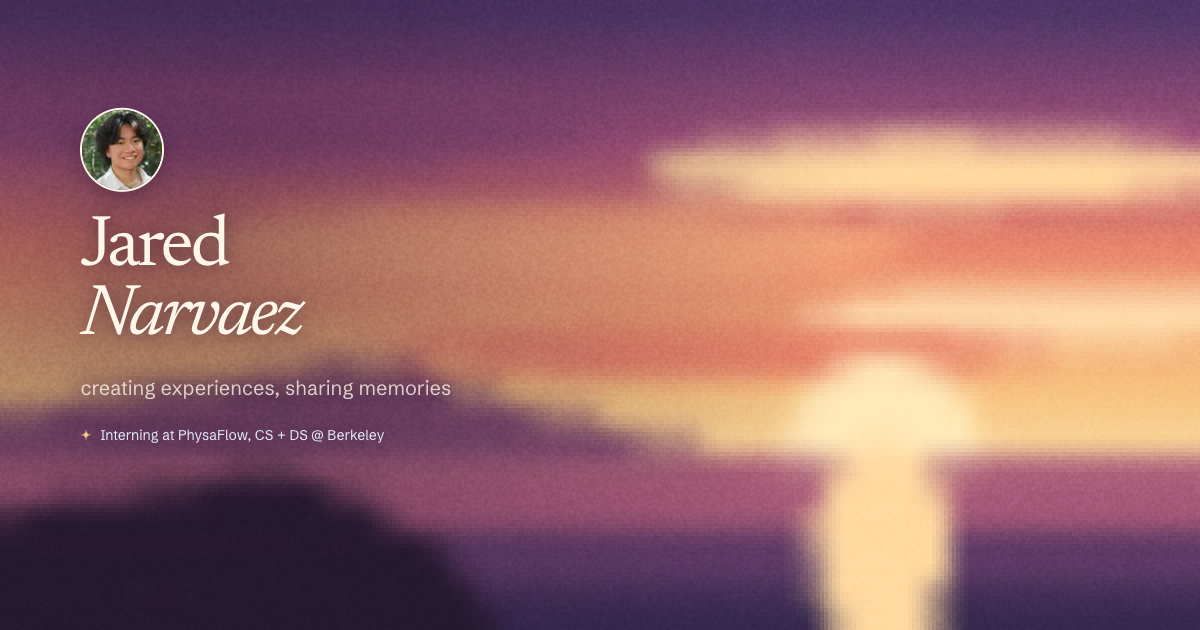
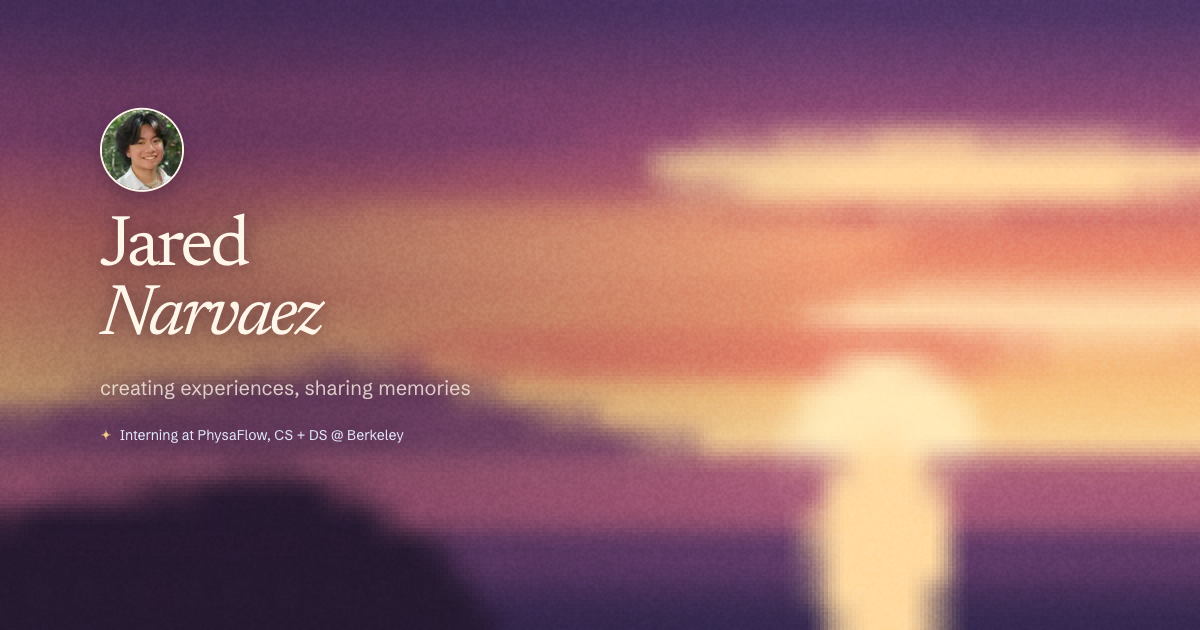
Layout: centered 1000px content column

diff --git a/src/app/globals.css b/src/app/globals.css
@@ -17,6 +17,13 @@
      docs/reference/home-mockup.html, chosen for step 7 on 2026-10-16). */
   --margin: clamp(24px, 6.7vw, 96px);
 
+  /* Left and right edges of the page content: a centered 1000px column, text left-aligned inside
+     (option B, chosen by Jared in /lab, 2026-10-19). On screens too narrow for side space, max()
+     falls back to the side margin. % (not vw) so the scrollbar doesn't push it off center.
+     The nav stays on --margin at the screen edges. */
+  --content-l: max(var(--margin), calc((100% - 1000px) / 2));
+  --content-r: max(var(--margin), calc((100% - 1000px) / 2));
+
   /* Footer: one 20px line plus 28px below it and the phone's safe-area inset. Connect is one
      screen minus this, so the last screen at full night holds both (footer mockup, option A). */
   --footer-height: calc(48px + env(safe-area-inset-bottom, 0px));

diff --git a/src/components/Hero.tsx b/src/components/Hero.tsx
@@ -10,7 +10,7 @@ import { hero } from "@/data/hero";
 // Layout values follow docs/reference/home-mockup.html.
 export default function Hero() {
   return (
-    <section className="flex min-h-svh items-center px-(--margin) pt-30 pb-20">
+    <section className="flex min-h-svh items-center pl-(--content-l) pr-(--content-r) pt-30 pb-20">
       {/* Nudged a little above center, as in the mockup. */}
       <div className="flex max-w-160 -translate-y-[4vh] flex-col gap-5.5 [text-shadow:var(--text-shadow)]">
         {/* 84px round portrait with a 2px cream border. First thing on screen, so it loads eagerly. */}

diff --git a/src/components/Footer.tsx b/src/components/Footer.tsx
@@ -4,7 +4,7 @@
 // for the leave-a-star hint. Its height is --footer-height (globals.css), which Connect subtracts.
 export default function Footer() {
   return (
-    <footer className="h-(--footer-height) px-(--margin) text-[12px] leading-5 text-ink/60 [text-shadow:var(--text-shadow)]">
+    <footer className="h-(--footer-height) pl-(--content-l) pr-(--content-r) text-[12px] leading-5 text-ink/60 [text-shadow:var(--text-shadow)]">
       designed and built by Jared Narvaez
     </footer>
   );

diff --git a/src/components/Connect.tsx b/src/components/Connect.tsx
@@ -26,7 +26,7 @@ export default function Connect() {
   return (
     <section
       id="contact"
-      className="flex min-h-[calc(100svh-var(--footer-height))] items-center px-(--margin) [text-shadow:var(--text-shadow)]"
+      className="flex min-h-[calc(100svh-var(--footer-height))] items-center pl-(--content-l) pr-(--content-r) [text-shadow:var(--text-shadow)]"
     >
       <div className="w-[min(320px,100%)]">
         <SectionLabel>{connect.label}</SectionLabel>

diff --git a/src/components/BeyondCode.tsx b/src/components/BeyondCode.tsx
@@ -151,7 +151,7 @@ export default function BeyondCode() {
   return (
     <section
       id="beyond-code"
-      className="px-(--margin) py-[clamp(72px,12vh,140px)]"
+      className="pl-(--content-l) pr-(--content-r) py-[clamp(72px,12vh,140px)]"
     >
       {/* LAB: --bc-* variables let /lab tune height, width, print size and frame (2026-10-16).
           Defaults are the current values; bake the chosen ones in and remove the variables. */}

diff --git a/src/components/TechStack.tsx b/src/components/TechStack.tsx
@@ -16,7 +16,7 @@ export default function TechStack() {
   return (
     <section
       id="tech"
-      className="px-(--margin) py-[clamp(72px,12vh,140px)] [text-shadow:var(--text-shadow)]"
+      className="pl-(--content-l) pr-(--content-r) py-[clamp(72px,12vh,140px)] [text-shadow:var(--text-shadow)]"
     >
       <SectionLabel>{techStack.label}</SectionLabel>
       <SectionHeading>{techStack.heading}</SectionHeading>

diff --git a/src/components/SectionDivider.tsx b/src/components/SectionDivider.tsx
@@ -6,7 +6,7 @@
 // Values chosen with Jared 2026-10-16, not yet in visual-system.md.
 export default function SectionDivider({ wide = false }: { wide?: boolean }) {
   return (
-    <div aria-hidden="true" className="px-(--margin)">
+    <div aria-hidden="true" className="pl-(--content-l) pr-(--content-r)">
       <div className={`h-px bg-ink/22 ${wide ? "" : "max-w-160"}`} />
     </div>
   );

diff --git a/src/components/Projects.tsx b/src/components/Projects.tsx
@@ -61,7 +61,7 @@ export default function Projects() {
   return (
     <section
       id="projects"
-      className="px-(--margin) py-[clamp(72px,12vh,140px)] [text-shadow:var(--text-shadow)]"
+      className="pl-(--content-l) pr-(--content-r) py-[clamp(72px,12vh,140px)] [text-shadow:var(--text-shadow)]"
     >
       <CollapsibleHeader
         label={projectsSection.label}

diff --git a/src/components/Experience.tsx b/src/components/Experience.tsx
@@ -43,7 +43,7 @@ export default function Experience() {
   return (
     <section
       id="experience"
-      className="px-(--margin) py-[clamp(72px,12vh,140px)] [text-shadow:var(--text-shadow)]"
+      className="pl-(--content-l) pr-(--content-r) py-[clamp(72px,12vh,140px)] [text-shadow:var(--text-shadow)]"
     >
       <CollapsibleHeader
         label={label}

diff --git a/src/components/Intro.tsx b/src/components/Intro.tsx
@@ -9,7 +9,7 @@ export default function Intro() {
   return (
     <section
       id="about"
-      className="px-(--margin) py-[clamp(72px,12vh,140px)] [text-shadow:var(--text-shadow)]"
+      className="pl-(--content-l) pr-(--content-r) py-[clamp(72px,12vh,140px)] [text-shadow:var(--text-shadow)]"
     >
       <SectionLabel>{intro.label}</SectionLabel>
 

diff --git a/docs/decisions-log.md b/docs/decisions-log.md
@@ -64,3 +64,4 @@
 | 2026-10-16 | An open experience role shows its bullets plus tech tags (small pills, as in projects); no link to a project page. Add a small footer line, "designed and built by Jared Narvaez" (look not designed yet). Italic stays on the surname only for now. | Jared's answers in the content pass. Tags let recruiters see the tools behind each role at a glance; a footer credit fits a site he designed and built himself. Italic elsewhere is still undecided, so nothing changes. |
 | 2026-10-16 | Footer = option A: one plain line, "designed and built by Jared Narvaez", 12px at ~60% cream, left-aligned on the margin under connect | Compared three footers in a mockup at full night. Left alignment matches every other text block on the page, and the bottom-right corner stays clear for the leave-a-star hint. Plain, since italic beyond the hero surname is still undecided. Rejected: B centered (the only centered text block); C with a "back to top" link (crowds the star hint, and the nav already returns on scroll up); italic surname in the footer. |
 | 2026-10-19 | Hero line = "creating experiences, sharing memories" at 20px (was "I build stuff." at 18px) | Jared drafted it after launch from what he enjoys most: designing things people can see and use, and people sharing the experience. One line carries both the engineer and the person, and "memories" leads into the scrapbook and leave a star. Compared in /lab over the golden-hour sky at 18–24px: 20px reads more confident while the name stays the only focal point. Not chosen: "building" or "designing" in place of "creating"; a middle dot between the halves; two sentences with periods; 18, 22 and 24px. |
+| 2026-10-19 | Page layout = B: all section content in a centered 1000px column, left-aligned inside; nav stays at the screen edges; narrower screens fall back to the side margin | Jared wanted space on both sides, like Drew's site, while keeping text left-aligned. Compared three layouts on the full home page in /lab. Not chosen: A (current 96px left margin), C (wider left edge only, right side left open). |

diff --git a/docs/visual-system.md b/docs/visual-system.md
@@ -95,6 +95,13 @@ Blend channel by channel (straight RGB) between neighboring keyframes. Golden ho
 - **Hero name:** Newsreader, stacked ("Jared" over "*Narvaez*" in italic), line-height about 0.95, 72px (desktop), weight 400, letter-spacing `-0.045em`. Word-spacing (`0.18em`) only matters if the name ever sits on one line, e.g. a navbar or footer. Needs a smaller size on phones (e.g. `clamp()`); spacing is in em so it scales with it.
 - **Italic:** used in the surname and in photo captions on scrapbook prints (Newsreader italic, in place of handwriting). Whether it appears anywhere else is still open.
 
+## Page layout
+
+- **Content column (decided 2026-10-19):** every section's content sits in a centered column, max 1000px wide, left-aligned inside (option B, like Drew's site). Built as `max(side margin, (page width − 1000px) / 2)` on each side, so below ~1100px wide it falls back to the side margin (up to 96px on desktop, 24px on phones).
+- **What "the 96px margin" means below:** on wide screens, the column's left and right edges. Tech stack rows run edge to edge of the column.
+- **Nav** stays on the 96px screen margin, outside the column.
+- **Vignette** unchanged (still fades out ~72% across); text toward the column's right edge sits closer to the sun, so check golden hour when widening blocks.
+
 ## Hero layout
 
 - **Placement:** editorial left, text block starts at the 96px left margin, vertically centered (slightly above middle). Sits on the left-side vignette. Right side left open to the sun and horizon.
